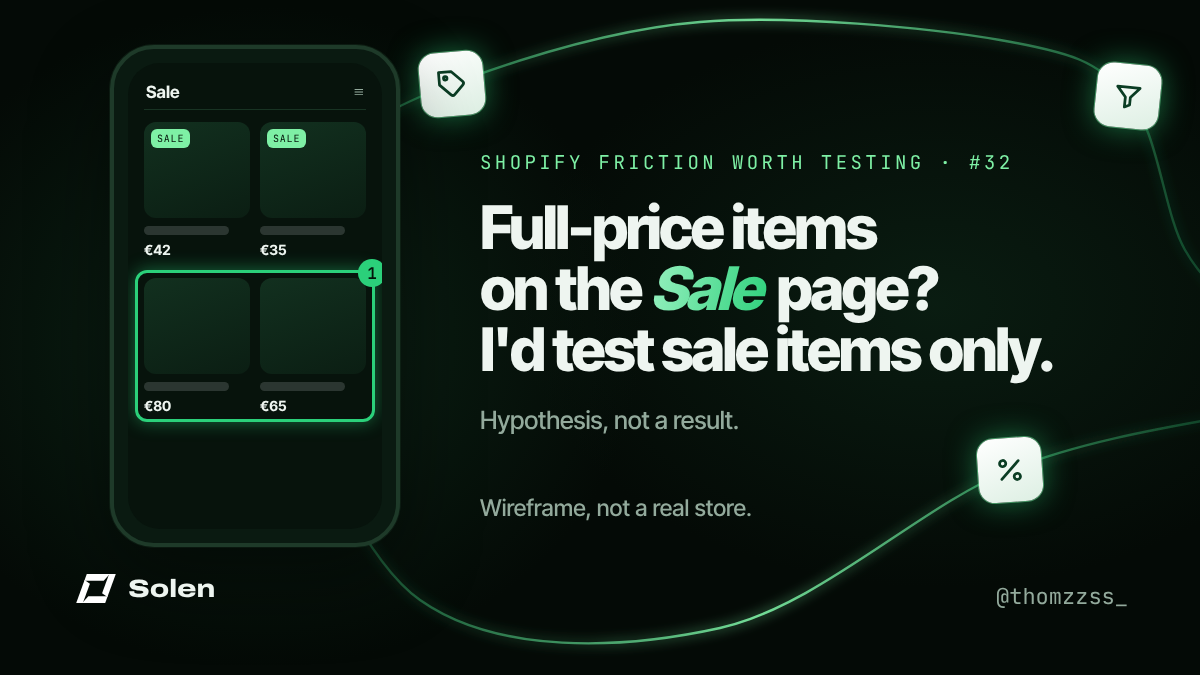
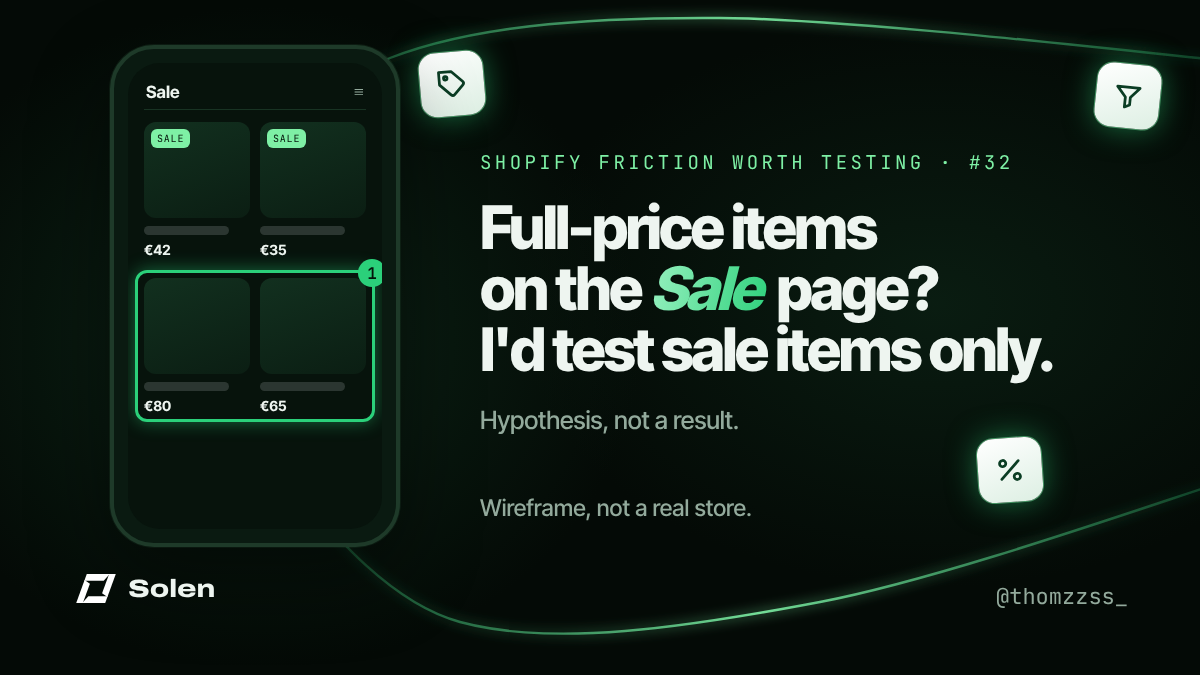
X visuals: two soft natural curves instead of lines linking every tile
Claude-Session: https://claude.ai/code/session_01BHXAVJFnX9CQrySXqS91xj

diff --git a/design/social/x-friction/_src/cta-form.html b/design/social/x-friction/_src/cta-form.html
@@ -56,10 +56,10 @@
 <script src="threads.js"></script>
 <script>
 // Comme la bannière : les traits partent d'un point sous le titre et rejoignent les tuiles et les bords.
-// Deux traits au plus (demande de Thomas, 23/11) : un arc au-dessus du logo, un sous le titre.
+// Deux courbes douces au plus (demande de Thomas, 23/11), qui ne relient pas les tuiles une à une.
 drawThreads([
-  [[-60,60], [300,118], [620,64], [960,112], [1260,56]],
-  [[-60,600], [290,492], [500,600], [752,590], [910,488], [1260,560]],
+  [[-60,40], [350,40], [760,150], [1260,90]],
+  [[-60,520], [260,600], [620,660], [1000,610], [1260,520]],
 ]);
 </script>
 </body>

diff --git a/design/social/x-friction/_src/friction-28.html b/design/social/x-friction/_src/friction-28.html
@@ -132,9 +132,10 @@
 // Comme la bannière : les traits partent d'un même point (caché derrière le téléphone) et balaient l'image, sans passer sur le texte.
 const H = [255, 300];
 // Deux traits au plus (demande de Thomas, 23/11).
+// Deux courbes douces qui sortent de derrière le téléphone, sans relier les tuiles une à une.
 drawThreads([
-  [H, [330,160], [452,84], [700,22], [1000,40], [1128,96], [1185,250], [1260,330]],
-  [H, [420,600], [720,628], [1010,470], [1260,410]],
+  [[250,200], [390,58], [720,18], [1260,64]],
+  [[260,450], [460,622], [820,602], [1260,470]],
 ]);
 </script>
 </body>

diff --git a/design/social/x-friction/_src/friction-29.html b/design/social/x-friction/_src/friction-29.html
@@ -133,9 +133,10 @@
 // Comme la bannière : les traits partent d'un même point (caché derrière le téléphone) et balaient l'image, sans passer sur le texte.
 const H = [255, 300];
 // Deux traits au plus (demande de Thomas, 23/11).
+// Deux courbes douces qui sortent de derrière le téléphone, sans relier les tuiles une à une.
 drawThreads([
-  [H, [330,160], [452,84], [700,22], [1000,40], [1128,96], [1185,250], [1260,330]],
-  [H, [420,600], [720,628], [1010,470], [1260,410]],
+  [[250,200], [390,58], [720,18], [1260,64]],
+  [[260,450], [460,622], [820,602], [1260,470]],
 ]);
 </script>
 </body>

diff --git a/design/social/x-friction/_src/friction-30.html b/design/social/x-friction/_src/friction-30.html
@@ -133,9 +133,10 @@
 // Comme la bannière : les traits partent d'un même point (caché derrière le téléphone) et balaient l'image, sans passer sur le texte.
 const H = [255, 300];
 // Deux traits au plus (demande de Thomas, 23/11).
+// Deux courbes douces qui sortent de derrière le téléphone, sans relier les tuiles une à une.
 drawThreads([
-  [H, [330,160], [452,84], [700,22], [1000,40], [1128,96], [1185,250], [1260,330]],
-  [H, [420,600], [720,628], [1010,470], [1260,410]],
+  [[250,200], [390,58], [720,18], [1260,64]],
+  [[260,450], [460,622], [820,602], [1260,470]],
 ]);
 </script>
 </body>

diff --git a/design/social/x-friction/_src/friction-31.html b/design/social/x-friction/_src/friction-31.html
@@ -132,9 +132,10 @@
 // Comme la bannière : les traits partent d'un même point (caché derrière le téléphone) et balaient l'image, sans passer sur le texte.
 const H = [255, 300];
 // Deux traits au plus (demande de Thomas, 23/11).
+// Deux courbes douces qui sortent de derrière le téléphone, sans relier les tuiles une à une.
 drawThreads([
-  [H, [330,160], [452,84], [700,22], [1000,40], [1128,96], [1185,250], [1260,330]],
-  [H, [420,600], [720,628], [1010,470], [1260,410]],
+  [[250,200], [390,58], [720,18], [1260,64]],
+  [[260,450], [460,622], [820,602], [1260,470]],
 ]);
 </script>
 </body>

diff --git a/design/social/x-friction/_src/friction-32.html b/design/social/x-friction/_src/friction-32.html
@@ -129,9 +129,10 @@
 // Comme la bannière : les traits partent d'un même point (caché derrière le téléphone) et balaient l'image, sans passer sur le texte.
 const H = [255, 300];
 // Deux traits au plus (demande de Thomas, 23/11).
+// Deux courbes douces qui sortent de derrière le téléphone, sans relier les tuiles une à une.
 drawThreads([
-  [H, [330,160], [452,84], [700,22], [1000,40], [1128,96], [1185,250], [1260,330]],
-  [H, [420,600], [720,628], [1010,470], [1260,410]],
+  [[250,200], [390,58], [720,18], [1260,64]],
+  [[260,450], [460,622], [820,602], [1260,470]],
 ]);
 </script>
 </body>

diff --git a/design/social/x-friction/_src/friction-33.html b/design/social/x-friction/_src/friction-33.html
@@ -132,9 +132,10 @@
 // Comme la bannière : les traits partent d'un même point (caché derrière le téléphone) et balaient l'image, sans passer sur le texte.
 const H = [255, 300];
 // Deux traits au plus (demande de Thomas, 23/11).
+// Deux courbes douces qui sortent de derrière le téléphone, sans relier les tuiles une à une.
 drawThreads([
-  [H, [330,160], [452,84], [700,22], [1000,40], [1128,96], [1185,250], [1260,330]],
-  [H, [420,600], [720,628], [1010,470], [1260,410]],
+  [[250,200], [390,58], [720,18], [1260,64]],
+  [[260,450], [460,622], [820,602], [1260,470]],
 ]);
 </script>
 </body>

diff --git a/design/social/x-friction/_src/friction-34.html b/design/social/x-friction/_src/friction-34.html
@@ -133,9 +133,10 @@
 // Comme la bannière : les traits partent d'un même point (caché derrière le téléphone) et balaient l'image, sans passer sur le texte.
 const H = [255, 300];
 // Deux traits au plus (demande de Thomas, 23/11).
+// Deux courbes douces qui sortent de derrière le téléphone, sans relier les tuiles une à une.
 drawThreads([
-  [H, [330,160], [452,84], [700,22], [1000,40], [1128,96], [1185,250], [1260,330]],
-  [H, [420,600], [720,628], [1010,470], [1260,410]],
+  [[250,200], [390,58], [720,18], [1260,64]],
+  [[260,450], [460,622], [820,602], [1260,470]],
 ]);
 </script>
 </body>

diff --git a/design/social/x-friction/_src/friction-35.html b/design/social/x-friction/_src/friction-35.html
@@ -132,9 +132,10 @@
 // Comme la bannière : les traits partent d'un même point (caché derrière le téléphone) et balaient l'image, sans passer sur le texte.
 const H = [255, 300];
 // Deux traits au plus (demande de Thomas, 23/11).
+// Deux courbes douces qui sortent de derrière le téléphone, sans relier les tuiles une à une.
 drawThreads([
-  [H, [330,160], [452,84], [700,22], [1000,40], [1128,96], [1185,250], [1260,330]],
-  [H, [420,600], [720,628], [1010,470], [1260,410]],
+  [[250,200], [390,58], [720,18], [1260,64]],
+  [[260,450], [460,622], [820,602], [1260,470]],
 ]);
 </script>
 </body>

diff --git a/design/social/x-friction/_src/friction-36.html b/design/social/x-friction/_src/friction-36.html
@@ -132,9 +132,10 @@
 // Comme la bannière : les traits partent d'un même point (caché derrière le téléphone) et balaient l'image, sans passer sur le texte.
 const H = [255, 300];
 // Deux traits au plus (demande de Thomas, 23/11).
+// Deux courbes douces qui sortent de derrière le téléphone, sans relier les tuiles une à une.
 drawThreads([
-  [H, [330,160], [452,84], [700,22], [1000,40], [1128,96], [1185,250], [1260,330]],
-  [H, [420,600], [720,628], [1010,470], [1260,410]],
+  [[250,200], [390,58], [720,18], [1260,64]],
+  [[260,450], [460,622], [820,602], [1260,470]],
 ]);
 </script>
 </body>

diff --git a/design/social/x-friction/_src/friction-37.html b/design/social/x-friction/_src/friction-37.html
@@ -130,9 +130,10 @@
 // Comme la bannière : les traits partent d'un même point (caché derrière le téléphone) et balaient l'image, sans passer sur le texte.
 const H = [255, 300];
 // Deux traits au plus (demande de Thomas, 23/11).
+// Deux courbes douces qui sortent de derrière le téléphone, sans relier les tuiles une à une.
 drawThreads([
-  [H, [330,160], [452,84], [700,22], [1000,40], [1128,96], [1185,250], [1260,330]],
-  [H, [420,600], [720,628], [1010,470], [1260,410]],
+  [[250,200], [390,58], [720,18], [1260,64]],
+  [[260,450], [460,622], [820,602], [1260,470]],
 ]);
 </script>
 </body>

diff --git a/design/social/x-friction/_src/friction-39.html b/design/social/x-friction/_src/friction-39.html
@@ -132,9 +132,10 @@
 // Comme la bannière : les traits partent d'un même point (caché derrière le téléphone) et balaient l'image, sans passer sur le texte.
 const H = [255, 300];
 // Deux traits au plus (demande de Thomas, 23/11).
+// Deux courbes douces qui sortent de derrière le téléphone, sans relier les tuiles une à une.
 drawThreads([
-  [H, [330,160], [452,84], [700,22], [1000,40], [1128,96], [1185,250], [1260,330]],
-  [H, [420,600], [720,628], [1010,470], [1260,410]],
+  [[250,200], [390,58], [720,18], [1260,64]],
+  [[260,450], [460,622], [820,602], [1260,470]],
 ]);
 </script>
 </body>
